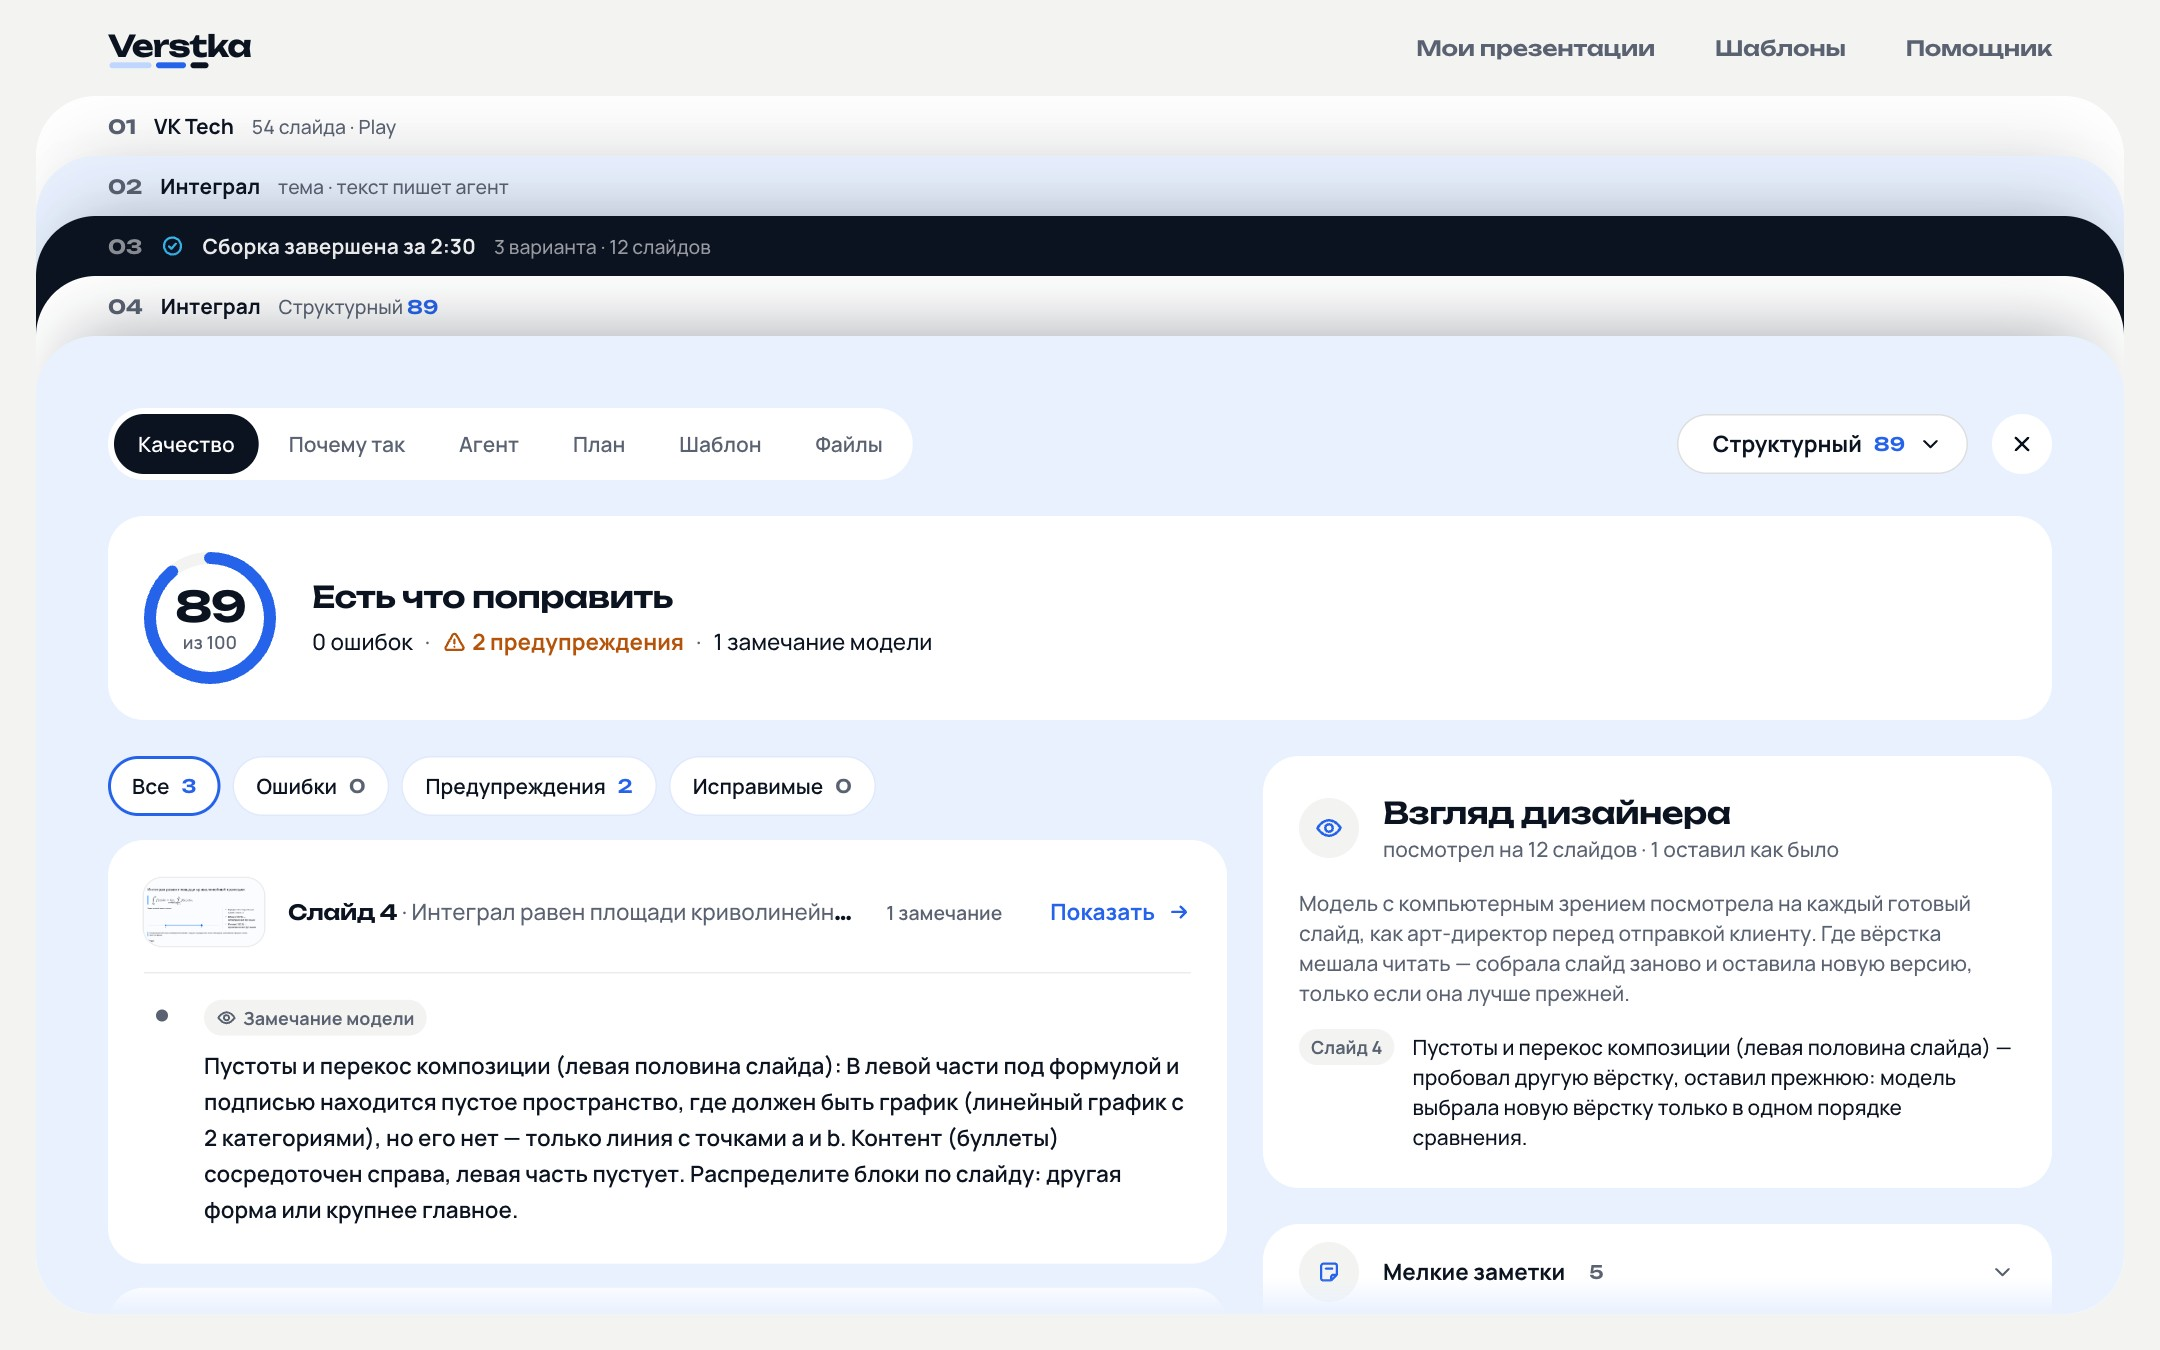
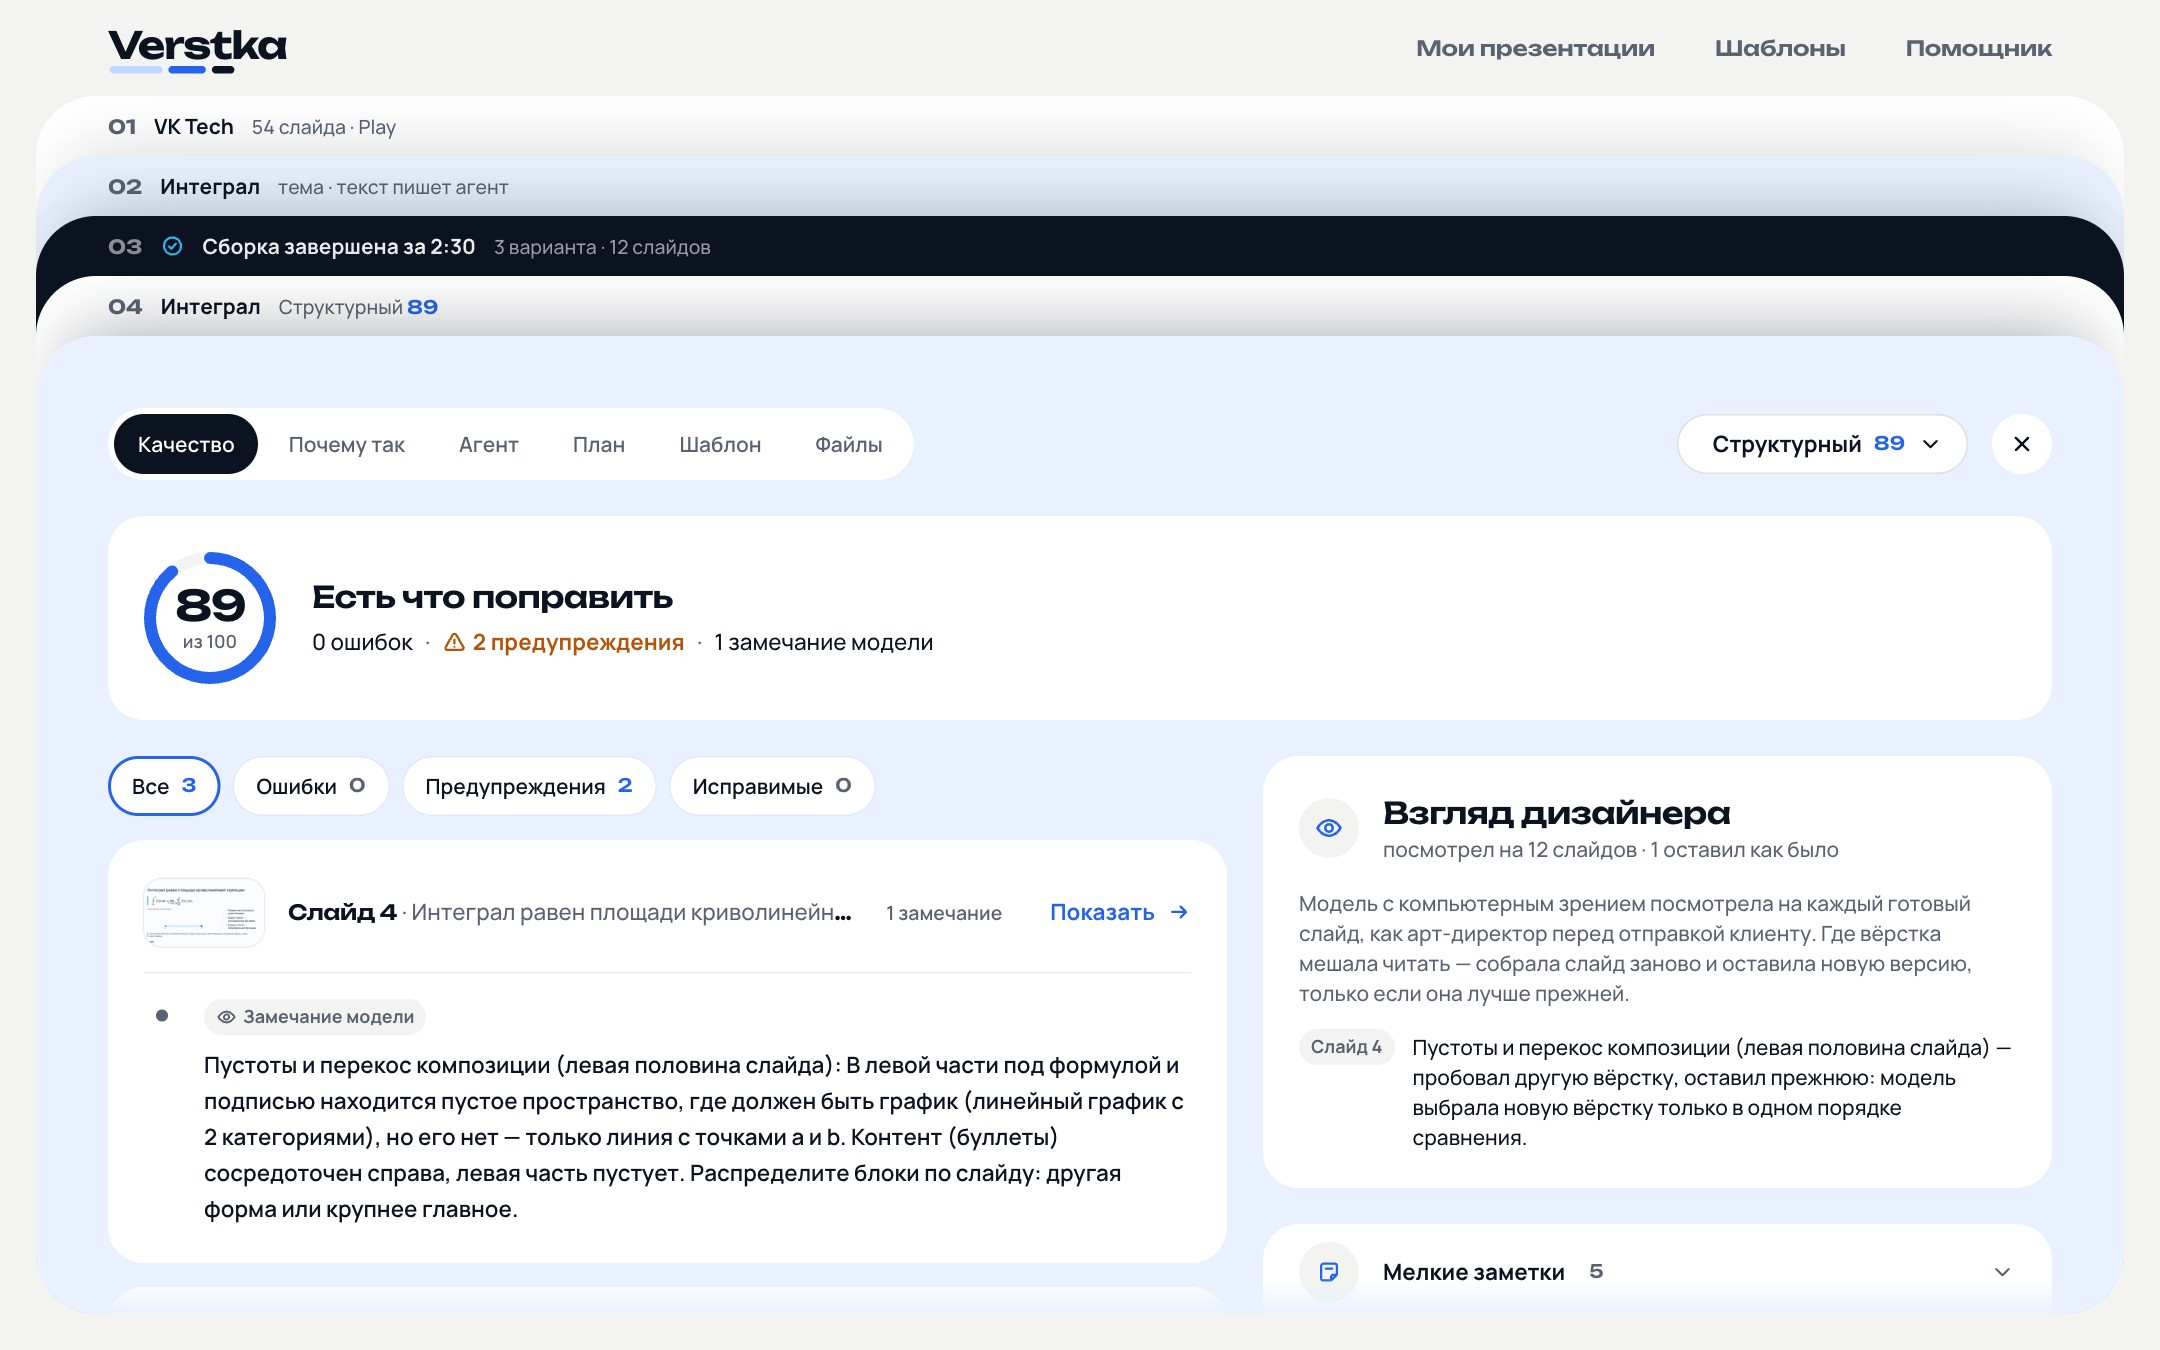
Документация: снимки с новым логотипом
Снимки интерфейса в docs/images сняты заново (логотип крупнее): настоящая
колода «Интеграл» 20261008-173516-113d20, как прежние, 1440×900 при
масштабе 1,5, JPG — hero, create, create-text, agent, why, remarks,
quality, chat, template, library, passport; build.gif — заново из
проигрыша записи сборки (9 кадров, 1000×625). README: помощник выходит
из-под колоды, остальные слои — поверх плит; 560 тестов веб-интерфейса.

diff --git a/README.md b/README.md
@@ -27,7 +27,7 @@
 
 ## Verstka 3.1 — что нового
 
-- **Интерфейс «Слои».** Весь путь — одна колода плит: «01 Шаблон», «02 Текст», «03 Параметры и запуск», затем «Сборка» и «Результат» ([`web/`](web)). Плиты и слои ездят по одной кривой за 520 мс: «Подробнее» (качество, «Почему так», агент, план, шаблон, файлы), «Мои презентации», «Шаблоны» и «Помощник» выезжают поверх и сужают колоду на любом экране. Никаких всплывающих уведомлений: статус стоит строкой рядом с местом действия. Шрифты Manrope и Unbounded, линейные иконки, ширина от 1280 px.
+- **Интерфейс «Слои».** Весь путь — одна колода плит: «01 Шаблон», «02 Текст», «03 Параметры и запуск», затем «Сборка» и «Результат» ([`web/`](web)). Плиты и слои ездят по одной кривой за 520 мс: «Подробнее» (качество, «Почему так», агент, план, шаблон, файлы), «Мои презентации» и «Шаблоны» выезжают поверх плит. «Помощник» выходит из-под колоды: колода сужается на любом экране, и содержимое плит и слоёв перестраивается вместе с ней, в том же движении. Никаких всплывающих уведомлений: статус стоит строкой рядом с местом действия. Шрифты Manrope и Unbounded, линейные иконки, ширина от 1280 px.
 - **Презентация по короткому запросу.** Напишите в поле «Текст» одну фразу — «Сделай презентацию про вторую мировую войну», «сделай презентаицю про интегралы» — и Verstka напишет насыщенный текст колоды сама ([`planning/topic_writer.py`](verstka/planning/topic_writer.py)): найдёт статью Википедии, составит план из 14–26 ключевых фактов, которые учитель или экзаменатор никогда не пропустит, напишет каждый слайд отдельно и параллельно (хронологии, ключевые цифры, формулы, разборы примеров, таблицы, диаграммы), вернёт на слайды пропущенные факты, уберёт повторы и проверит факты — даты, имена, цифры и каждую формулу — по статье. Математические, физические и технические темы — это колода формул с объяснениями: не больше двух слайдов истории, затем определение, свойства, основные формулы, методы, разобранные примеры с ответом и применения, у каждой формулы — пояснение словами. Скиллы [`topic_planner`](skills/topic_planner), [`topic_slide_writer`](skills/topic_slide_writer), [`topic_fact_check`](skills/topic_fact_check); текст виден и правится («Показать текст»).
 - **Настоящие математические формулы.** Формула на слайде — это нативное уравнение PowerPoint (Office Math), которое открывается и редактируется в PowerPoint как «Вставка → Уравнение», а для LibreOffice, Google Slides и Keynote в той же фигуре лежит её картинка, набранная по правилам TeX шрифтом STIX Two Math: полноразмерные дроби, большие интегралы с пределами, «lim» с условием под ним ([`rendering/equation.py`](verstka/rendering/equation.py)). Источник — LaTeX (`$\int_a^b f(x)\,dx = F(b) - F(a)$`) или обычная запись («∫ f(x) dx = F(x) + C», «S = πr²»). Одна формула — крупно на карточке шаблона с пояснением и расшифровкой обозначений; несколько — строками или плитками, каждая со своим названием и пояснением, в трёх вариантах по-разному.
 - **Картинки без кривых надписей.** Модель изображений рисует буквы и цифры криво, поэтому их на картинках нет: промпт запрещает надписи и предметы с ними (карты, документы, плакаты, циферблаты), а VLM смотрит на каждую готовую картинку и, если видит надпись, рисует её заново, до трёх раз ([`images/text_check.py`](verstka/images/text_check.py), скилл [`image_text_check`](skills/image_text_check)).
@@ -50,7 +50,7 @@
 - **Чат с агентом.** «На слайде 5 покажи это крупными цифрами», «убери слайд 3», «почему слайд 4 такой», «верни как было».
 - **PPTX с редактируемыми объектами** внутри пакета самого шаблона (мастера, макеты, тема, шрифты сохраняются), плюс PDF и HTML (текст — текстом, таблицы — `<table>`, диаграммы — SVG). Все 9 демо-колод проходят проверку схем OOXML.
 - **Быстро и без зависимости от сети.** 12 слайдов в трёх вариантах: около 2 минут с моделью и «Взглядом дизайнера» (финальный живой прогон 07.10 на 8 шаблонах: 106–133 с, оценки 94–100), 10–25 секунд без неё. Запасная модель (Qwen3.6-27B) и полностью офлайн-режим.
-- **2 566 автотестов:** 2 522 модульных и 44 интеграционных, плюс 527 тестов веб-интерфейса.
+- **2 566 автотестов:** 2 522 модульных и 44 интеграционных, плюс 560 тестов веб-интерфейса.
 
 ## Как это выглядит
 
@@ -112,7 +112,7 @@
 
 ### 6. Помощник
 
-Правка словами — та же работа дизайнера с той же сверкой чисел. Каждая правка сохраняет прежнюю версию, «верни как было» откатывает её точно. Помощник открывается из шапки и сужает колоду на любом экране; на вопросы про презентацию он отвечает по её настоящим данным и сам открывает нужное место в «Подробнее».
+Правка словами — та же работа дизайнера с той же сверкой чисел. Каждая правка сохраняет прежнюю версию, «верни как было» откатывает её точно. Помощник открывается из шапки: колода сужается на любом экране и открывает его из-под себя; на вопросы про презентацию он отвечает по её настоящим данным и сам открывает нужное место в «Подробнее».
 
 ![Помощник отвечает на «Почему слайд 4 такой?»: колода сузилась, а «Подробнее» открылось на «Почему так»](docs/images/chat.jpg)
 
